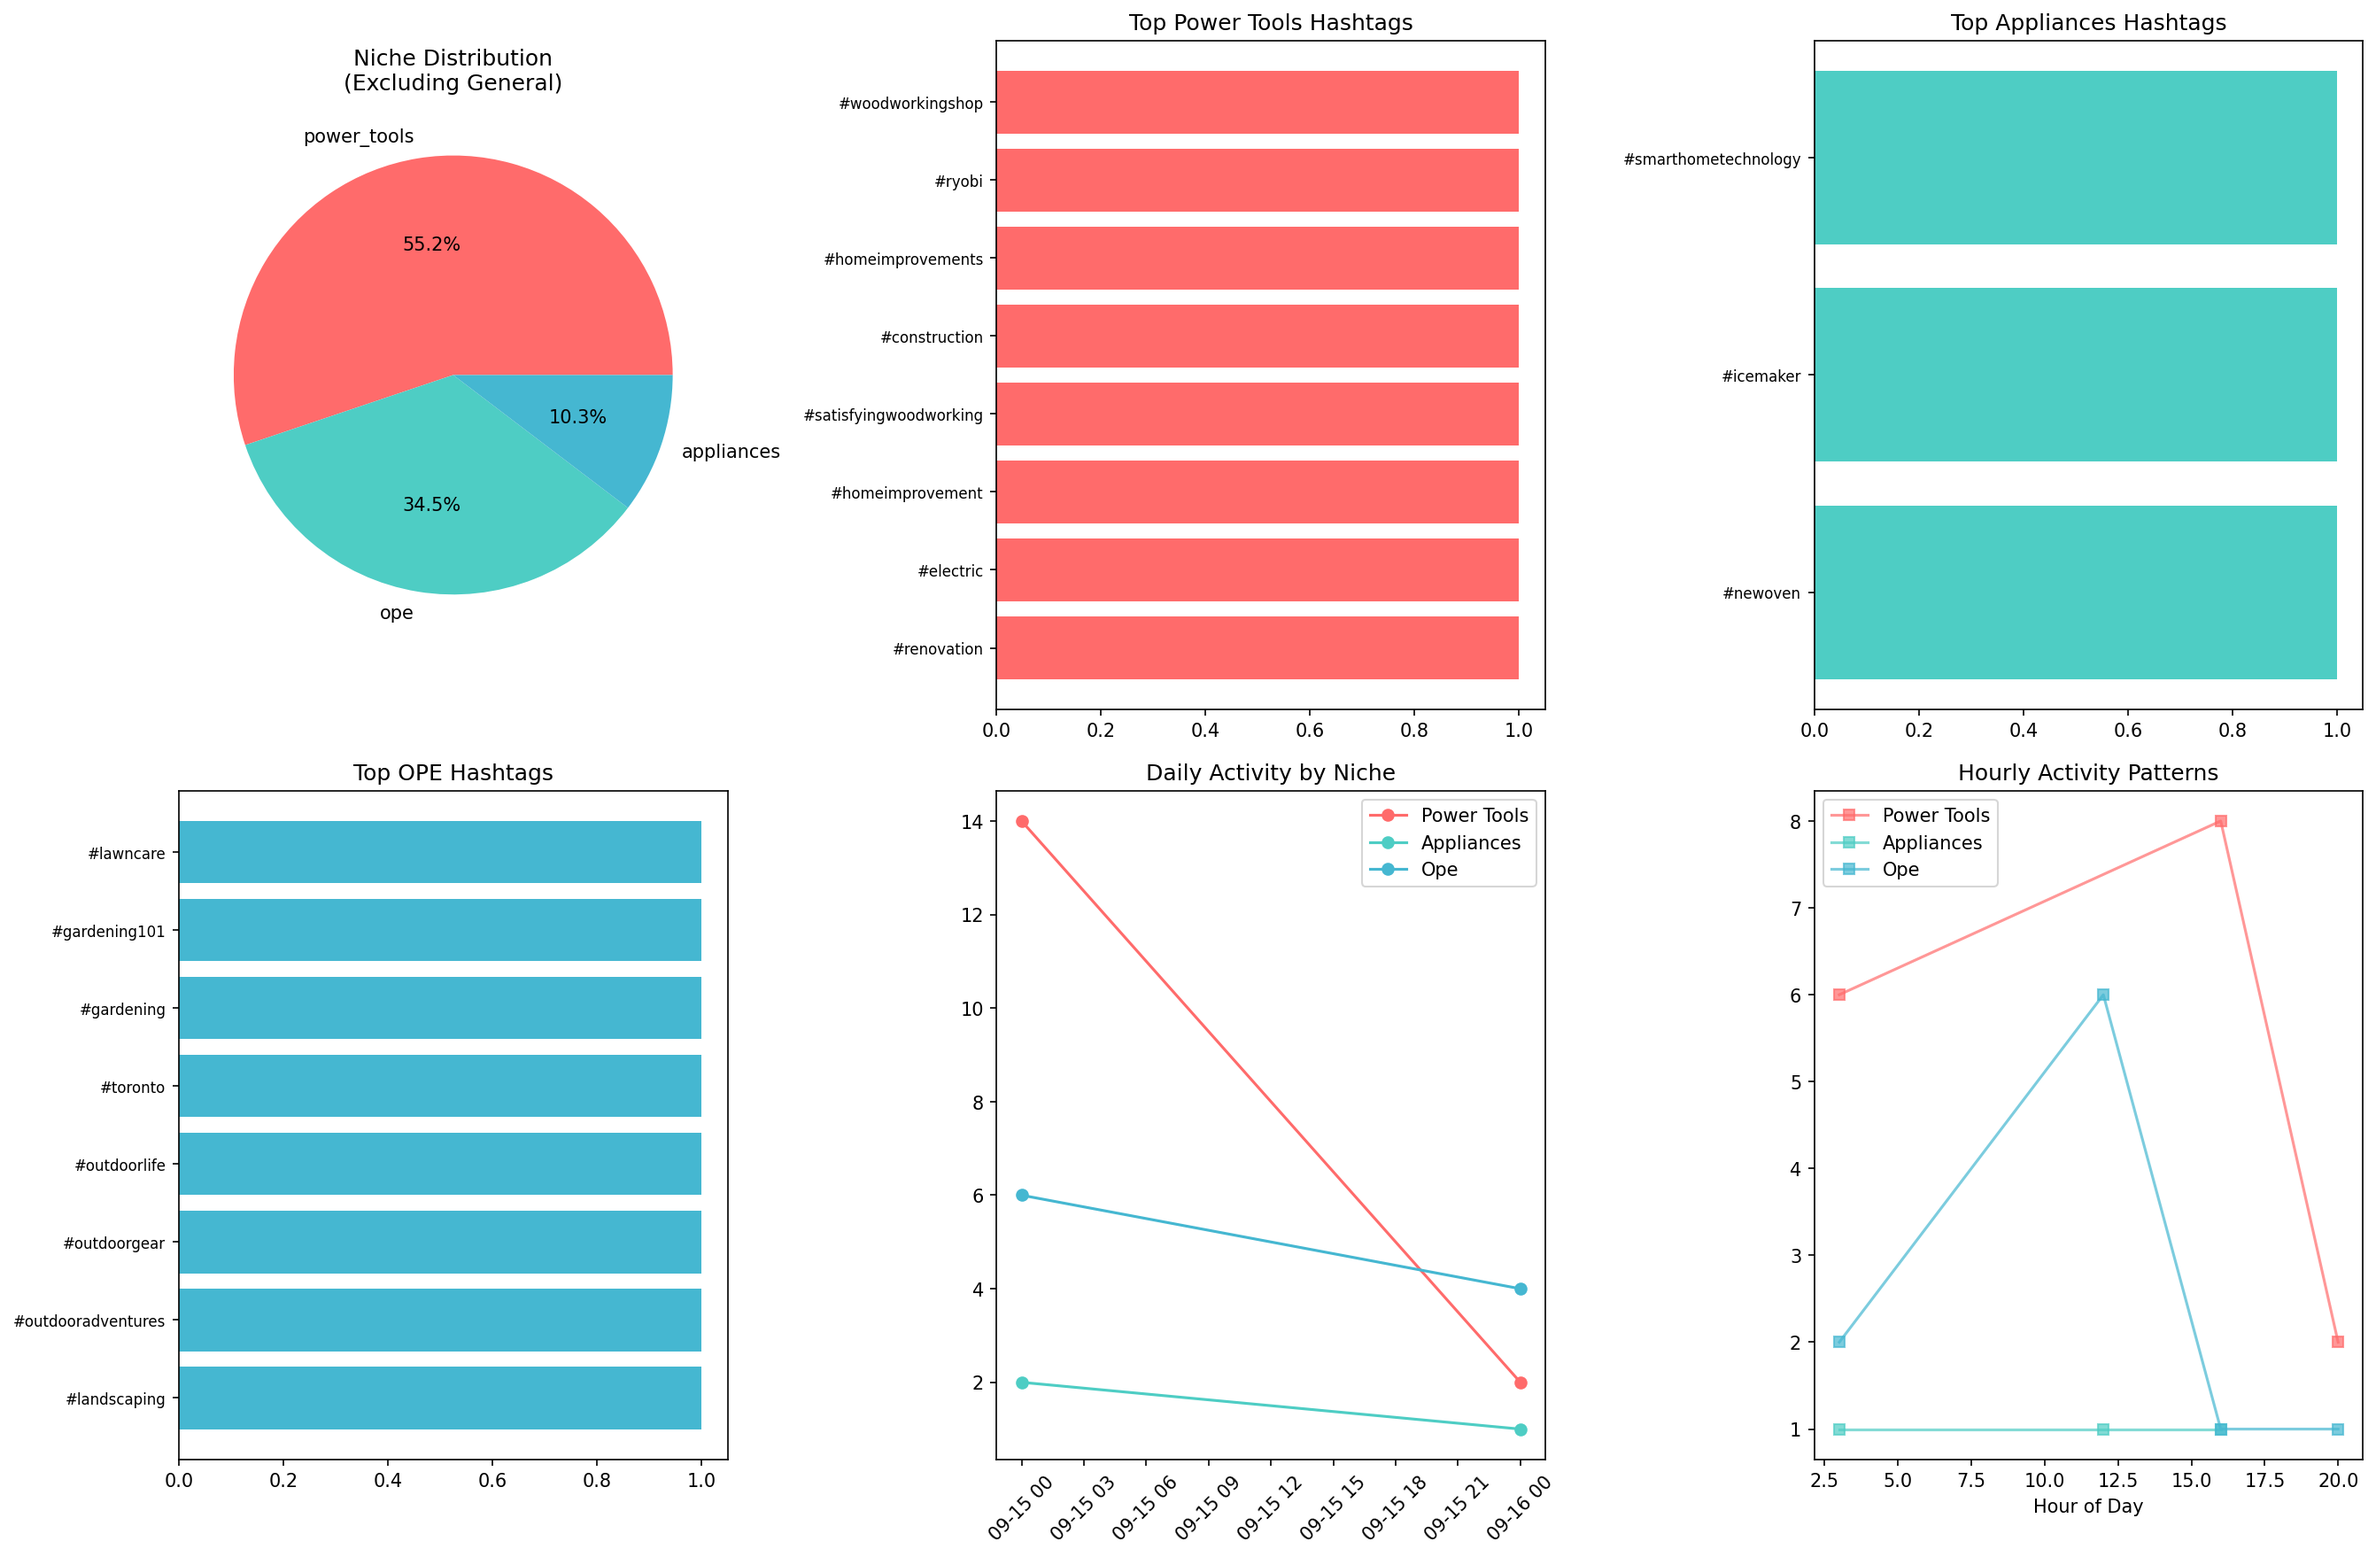
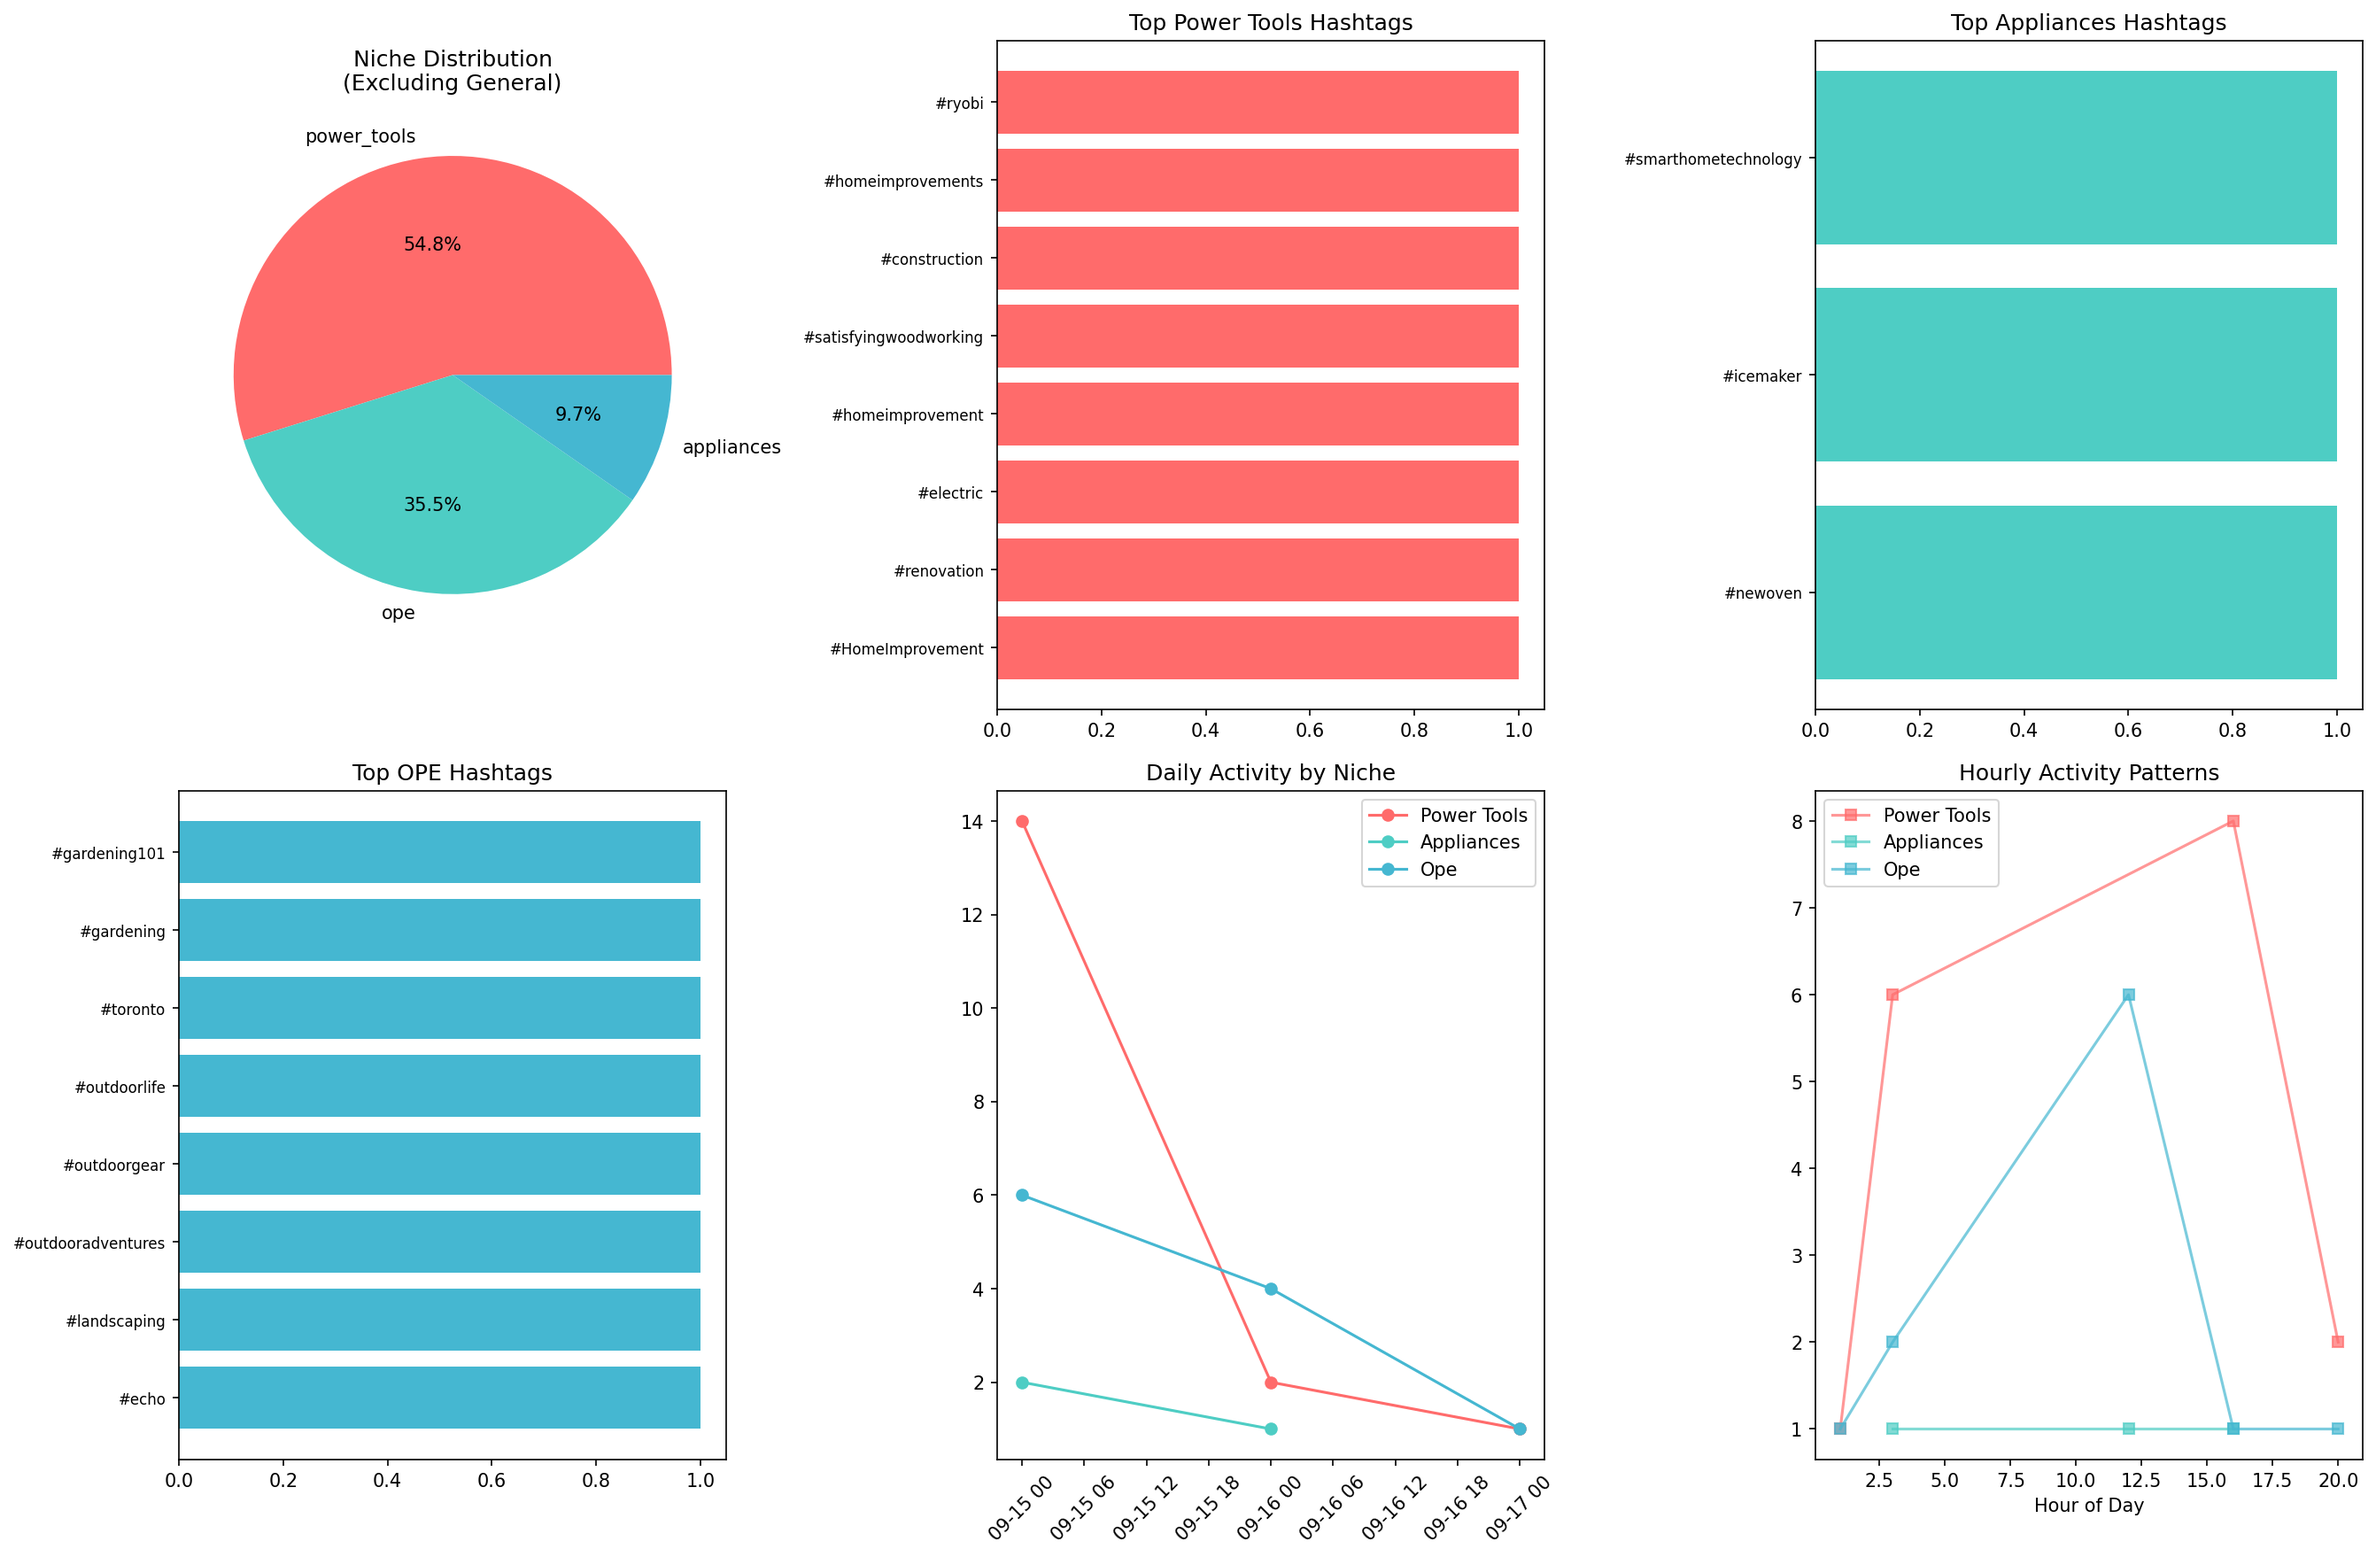
Auto-update: Pipeline results 2025-09-17 01:28

diff --git a/hashtag_dashboard.html b/hashtag_dashboard.html
@@ -165,7 +165,7 @@
             <div class="header">
                 <h1>🚀 TikTok Hashtag Analysis Dashboard</h1>
                 <p>Power Tools | Appliances | Outdoor Power Equipment</p>
-                <p>Generated: September 16, 2025 at 08:25 PM</p>
+                <p>Generated: September 17, 2025 at 01:28 AM</p>
             </div>
     
             <div class="summary">
@@ -173,17 +173,17 @@
                 <div class="summary-grid">
         
                     <div class="summary-item">
-                        <span class="summary-number">200</span>
+                        <span class="summary-number">220</span>
                         <div class="summary-label">General</div>
                     </div>
                 
                     <div class="summary-item">
-                        <span class="summary-number">16</span>
+                        <span class="summary-number">17</span>
                         <div class="summary-label">Power Tools</div>
                     </div>
                 
                     <div class="summary-item">
-                        <span class="summary-number">10</span>
+                        <span class="summary-number">11</span>
                         <div class="summary-label">Ope</div>
                     </div>
                 
@@ -199,6 +199,11 @@
                     <h2>🔧 Power Tools</h2>
                     <ul class="hashtag-list">
             
+                        <li class="hashtag-item">
+                            <span class="hashtag">##HomeImprovement</span>
+                            <span class="count">1</span>
+                        </li>
+                    
                         <li class="hashtag-item">
                             <span class="hashtag">##renovation</span>
                             <span class="count">1</span>
@@ -269,11 +274,6 @@
                             <span class="count">1</span>
                         </li>
                     
-                        <li class="hashtag-item">
-                            <span class="hashtag">##diy</span>
-                            <span class="count">1</span>
-                        </li>
-                    
                     </ul>
                 </div>
             
@@ -303,6 +303,11 @@
                     <h2>🌿 Outdoor Power Equipment</h2>
                     <ul class="hashtag-list">
             
+                        <li class="hashtag-item">
+                            <span class="hashtag">##echo</span>
+                            <span class="count">1</span>
+                        </li>
+                    
                         <li class="hashtag-item">
                             <span class="hashtag">##landscaping</span>
                             <span class="count">1</span>
